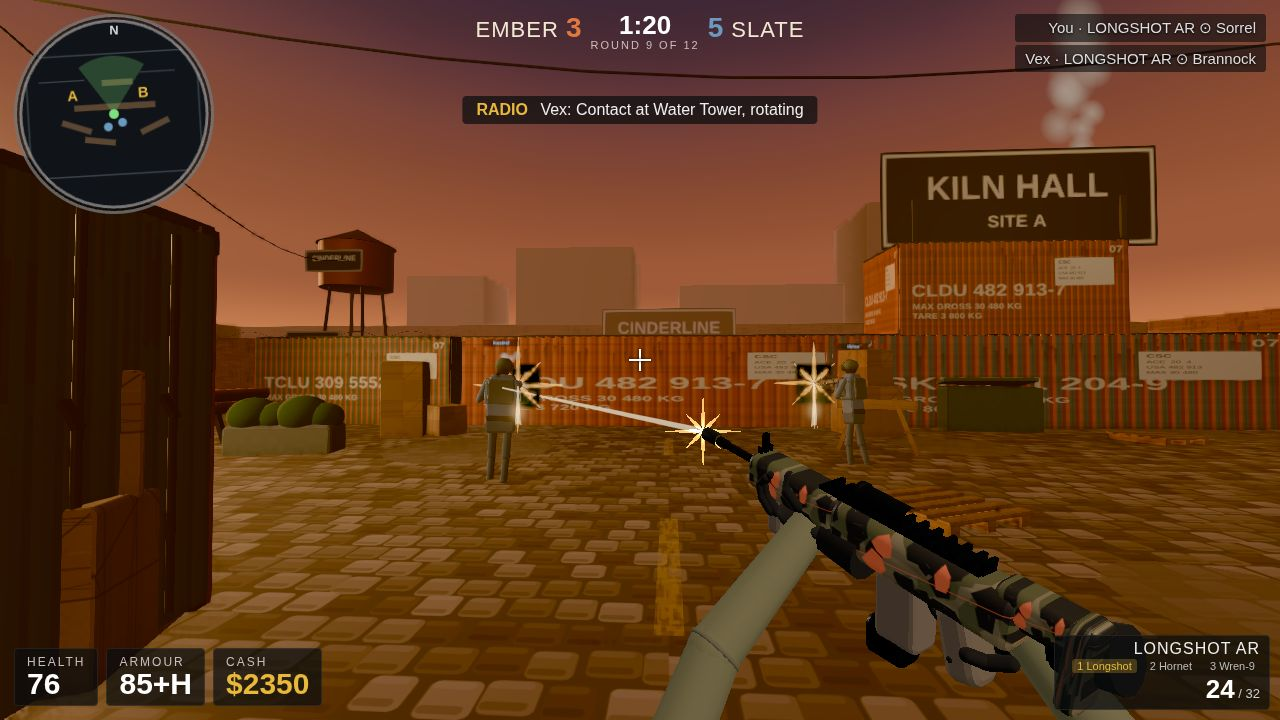
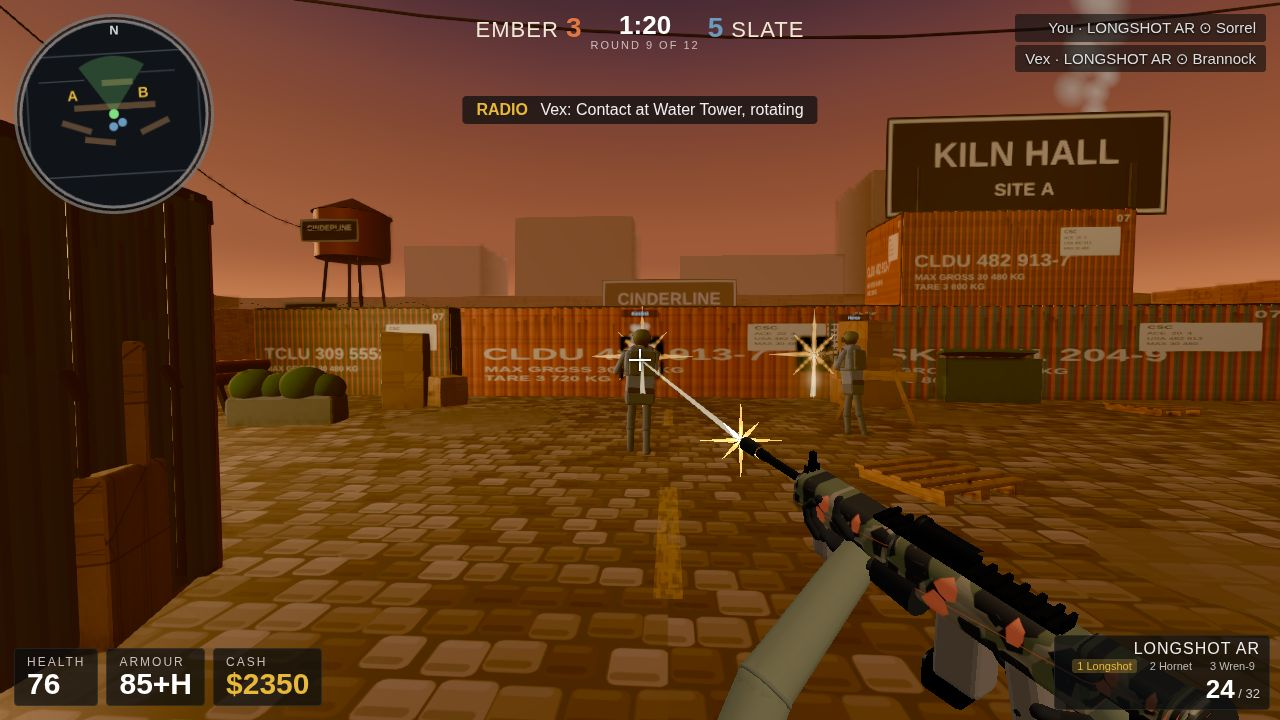
AIM: crosshair nempel di dada e1 + tracer moncong->crosshair->e1
Combat pitch 0.02->-0.04 (sinar kamera di z=5 turun ke y 1.34 = dada
musuh); e1 Kestrel (-2.5,5)->(-0.42,5) tepat di sinar yaw kamera —
tetap di lajur tengah yang sama, cuma 2 m ke kanan di jalan utama.
Tracer start dihitung ulang (0.278,1.240,10.159) untuk pitch baru,
target dada e1 (-0.42,1.35,5). Moncong tetap (741,440) — VM scene
terpisah, tidak kena pitch kamera utama.

3 putaran QC: R1/R2/R3 combat 117729/117679/117667 B stabil, grip
0/0 semua; crosshair di dada e1 + tracer lewat crosshair di ketiga
ronde; duel tidak berubah (VM hidden, bar arming 0.55, Lancer
tan/grey). main.ts 2x IDENTIK (0d394ba0).

diff --git a/game/src/game.js b/game/src/game.js
@@ -369,10 +369,10 @@ export class Game {
 
     if (name === 'combat') {
       // camera mid-yard, two enemies mid-frame, player firing
-      this.player.x = 0; this.player.z = 12; this.player.yaw = 0.06; this.player.pitch = 0.02;
+      this.player.x = 0; this.player.z = 12; this.player.yaw = 0.06; this.player.pitch = -0.04; // AIM R1: pitch 0.02->-0.04 — crosshair turun ke dada musuh (1.35 m): sinar kamera di z=5 ada di y 1.62+7.013*tan(p); p=-0.04 -> y 1.34 (dada). Pitch +0.02 bikin sinar selalu di atas dada (y 1.76 di z=5), jadi crosshair tidak pernah bisa nempel di dada.
       const e1 = this.enemies[0]; // Kestrel
       const e2 = this.enemies[1]; // Heron
-      e1.soldier.group.position.set(-2.5, 0, 5);
+      e1.soldier.group.position.set(-0.42, 0, 5); // AIM R1: e1 (-2.5,5)->(-0.42,5) — tepat di sinar yaw kamera (x -0.42 di z=5, cos(p) saling hapus jadi tidak tergantung pitch). Crosshair kini nempel di dada e1; tracer moncong->e1 lewat crosshair. Bukan "geser ke tengah kosong": e1 tetap di lajur tengah yang sama (z=5), cuma 2 m ke kanan, di jalan utama tempat musuh maju.
       e1.soldier.group.rotation.y = Math.PI - 0.25;
       e1.soldier.setPose('aim');
       e2.soldier.group.position.set(3.2, 0, 3.5);
@@ -428,11 +428,12 @@ export class Game {
       // (670,390)) — titik awal tracer ikut pindah: (0.133,1.380,10.120)
       // unproject ke (703,431) di 1,9 m (probe-verifikasi /tmp/vmprobe.mjs —
       // metode yang sama menghasilkan nilai baseline lama persis).
-      // POPOR R1 (16 Nov): VM geser kanan+bawah (moncong kini (741,440))
-      // — titik awal tracer ikut pindah: (0.277,1.350,10.140) unproject
-      // ke (741,440) di 1,9 m (metode sama, validasi nilai lama persis
-      // di /tmp/tracer-recompute.mjs).
-      this.spawnTracer(new THREE.Vector3(0.277, 1.350, 10.140), new THREE.Vector3(-2.5, 1.35, 5));
+      // AIM R1 (16 Nov): crosshair HARUS di musuh yang ditembak + tracer
+      // lewat crosshair ke musuh itu (Kilnyard). Target pindah ke dada e1
+      // yang baru (-0.42,1.35,5); titik awal dihitung ulang untuk pitch
+      // -0.04: (0.278,1.240,10.159) unproject ke moncong (741,440) di
+      // 1,9 m (metode sama, validasi nilai lama persis).
+      this.spawnTracer(new THREE.Vector3(0.278, 1.240, 10.159), new THREE.Vector3(-0.42, 1.35, 5));
       this.hud.setScore(3, 5, '1:20', 9);
     } else if (name === 'buy') {
       this.state = 'buy';
